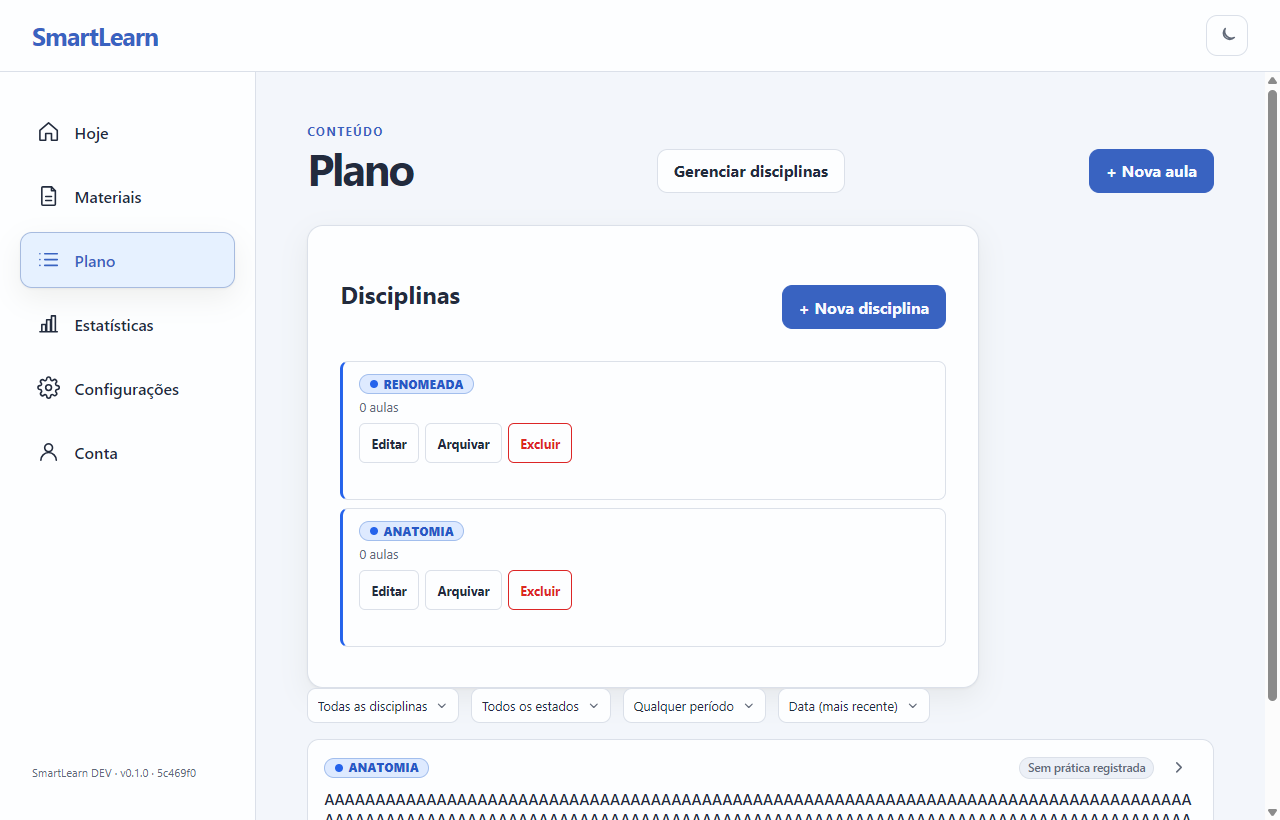
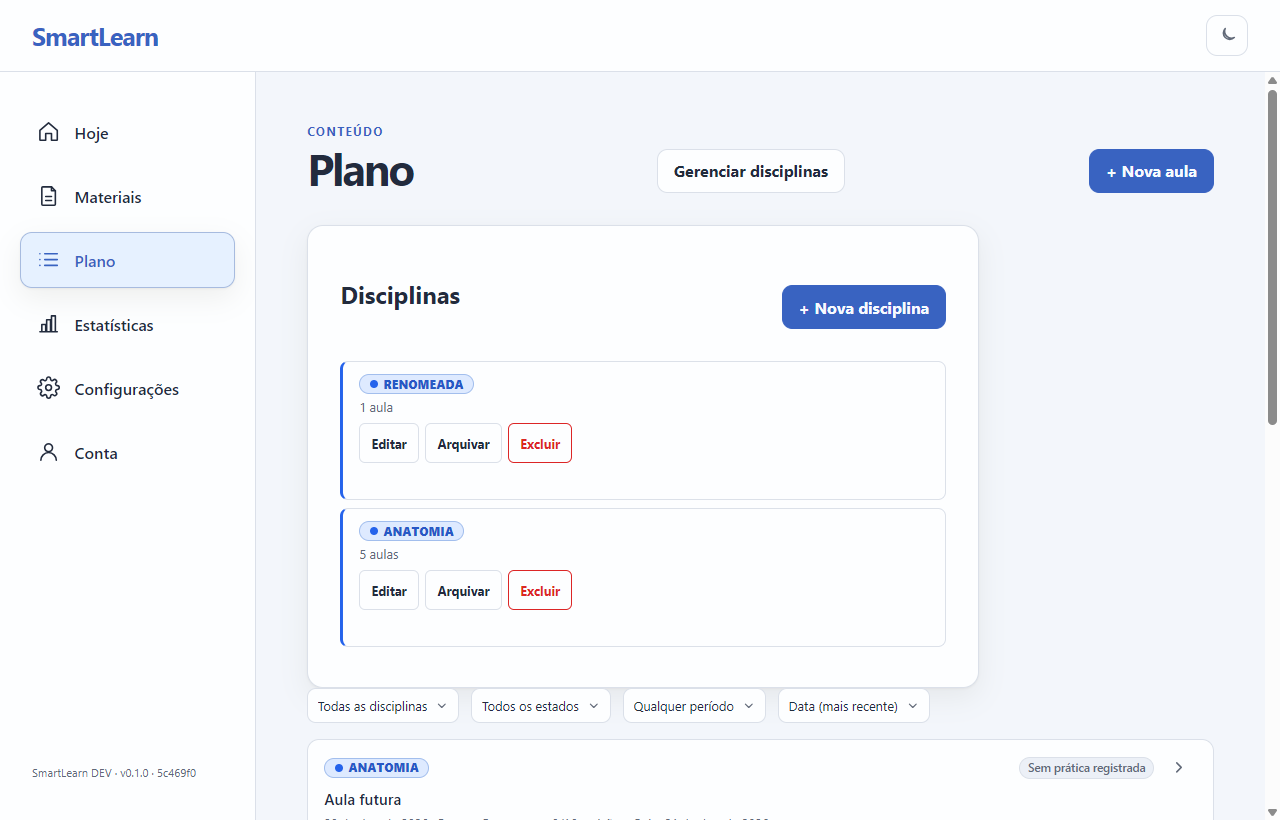
test(native): one-shot functional cycle runner, realistic seed dataset, baselines for the cycle

Changed region(s): [[0.25, 0.9451, 0.9375, 1.0], [0.9688, 0.5183, 1.0, 0.8537]]

diff --git a/.specs/evidence/ui-funcional-2026-11-01/DATASET-SEED.md b/.specs/evidence/ui-funcional-2026-11-01/DATASET-SEED.md
@@ -1,0 +1,15 @@
+# Dados de teste reutilizáveis (seed) — estatísticas e outras jornadas
+
+Criados no app nativo isolado por `lotes/seed/SEED1`, `SEED2b` e `SEED3` (conta `aluno1@example.com`). Rodar uma vez em dados novos; depois reaproveitar sem reiniciar o app.
+
+| Item | Valor |
+|---|---|
+| Disciplinas | Farmacologia, Anatomia, Fisiologia, Bioquímica |
+| Aulas com data (para revisões vencidas e futuras) | Sistema nervoso central 05/10, Membro superior 12/10, Potencial de ação 15/10, Sistema cardiovascular 22/10, Glicólise 28/10, Farmacocinética básica 30/10 |
+| Aula com PDF e exercícios | `farmacologia-teste.pdf` (3 questões) em Farmacologia |
+| Estudo | acertou, errou, acertou |
+| Revisões marcadas feitas | 3 |
+| Números esperados em Estatísticas | Vencidas 6, Revisões feitas 7, Média geral 66,7%, Questões 3, Acertos 2 |
+| Nota | com menos de 10 questões a tela diz "Ainda não há evidência…" (regra de tendência), mesmo com dados |
+
+Ciclo completo: `node scripts/zz-ui-cycle.mjs` (9 lotes, ~13 s, app aberto uma vez). `--record` grava os tempos de referência.

diff --git a/.specs/evidence/ui-funcional-2026-11-01/lotes/CICLO-RESULTADO.md b/.specs/evidence/ui-funcional-2026-11-01/lotes/CICLO-RESULTADO.md
@@ -1,0 +1,17 @@
+# Resultado do ciclo funcional
+
+Total: 13470 ms, 9 lotes, 0 com falha.
+
+| Lote | Linhas | Falhas | ms | Lentas | Desvio de tempo | Sem medição |
+|---|---|---|---|---|---|---|
+| J01.txt | 15 | 0 | 1695 | sim |  |  |
+| J02.txt | 9 | 0 | 632 |  |  |  |
+| J05.txt | 9 | 0 | 271 |  |  |  |
+| J11.txt | 8 | 0 | 461 |  |  |  |
+| J12.txt | 12 | 0 | 1122 |  |  |  |
+| J14.txt | 13 | 0 | 3217 | sim |  |  |
+| J15.txt | 10 | 0 | 181 |  |  |  |
+| J08.txt | 12 | 0 | 2552 | sim |  |  |
+| J13.txt | 10 | 0 | 2081 | sim |  |  |
+
+## Linhas com falha
